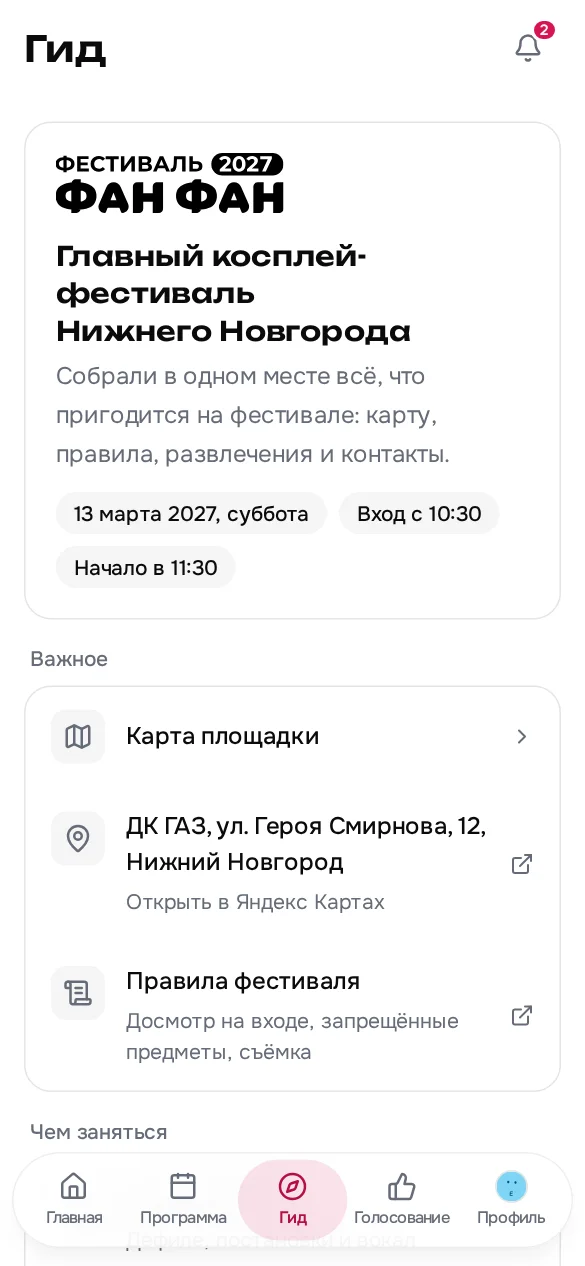
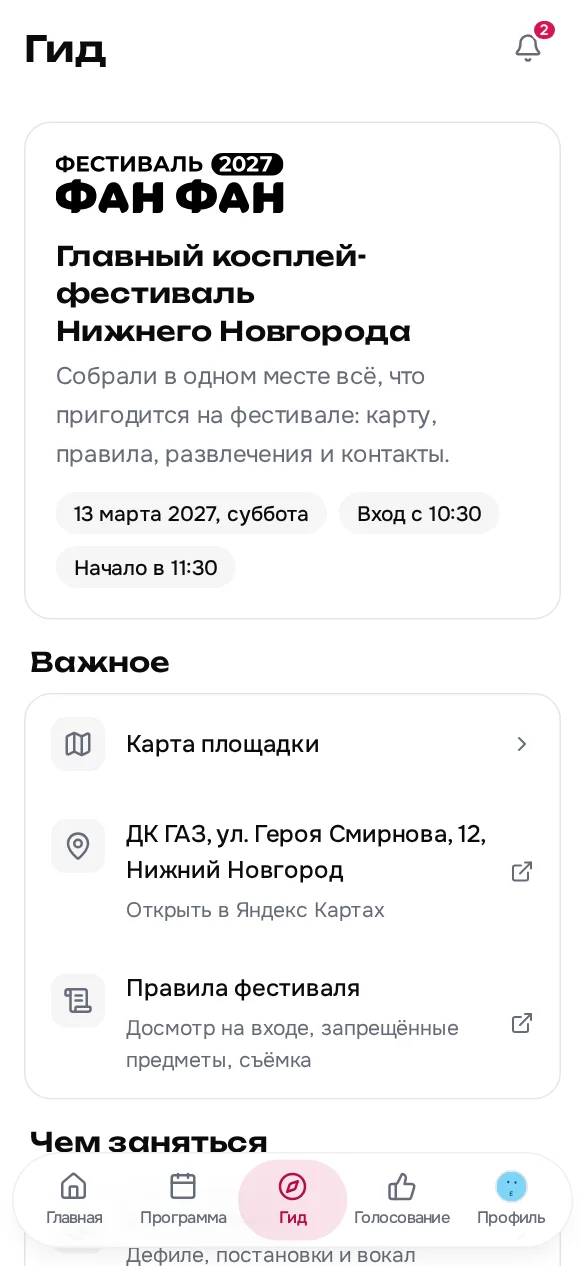
feat(frontend): promote guide group labels to unbounded section headings
Claude-Session: https://claude.ai/code/session_01GGCdtb5EeVjHHRSBY2mG9w

diff --git a/frontend/src/routes/(app)/guide/+page.svelte b/frontend/src/routes/(app)/guide/+page.svelte
@@ -145,7 +145,7 @@
 	</section>
 
 	<section aria-labelledby="guide-important" class="flex flex-col gap-2">
-		<h2 id="guide-important" class="px-1 text-sm font-medium text-muted-foreground">
+		<h2 id="guide-important" class="px-1 text-section text-foreground">
 			{m.guide_important_heading()}
 		</h2>
 		<MenuGroup>
@@ -166,7 +166,7 @@
 	</section>
 
 	<section aria-labelledby="guide-activities" class="flex flex-col gap-2">
-		<h2 id="guide-activities" class="px-1 text-sm font-medium text-muted-foreground">
+		<h2 id="guide-activities" class="px-1 text-section text-foreground">
 			{m.guide_activities_heading()}
 		</h2>
 		<MenuGroup>
@@ -183,7 +183,7 @@
 
 	<!-- Rarely needed on the day, so below the activities rather than in the hero. -->
 	<section aria-labelledby="guide-contacts" class="flex flex-col gap-2">
-		<h2 id="guide-contacts" class="px-1 text-sm font-medium text-muted-foreground">
+		<h2 id="guide-contacts" class="px-1 text-section text-foreground">
 			{m.guide_contacts_heading()}
 		</h2>
 		<MenuGroup>
